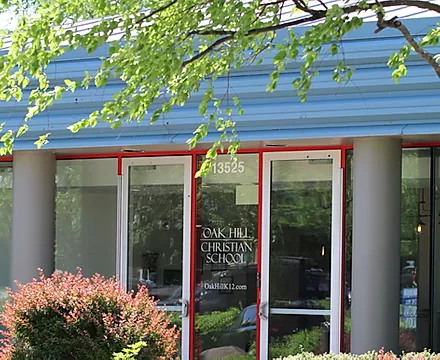
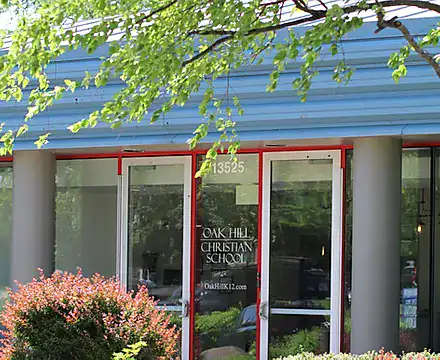
Convert homepage images to webp

diff --git a/index.html b/index.html
@@ -8,7 +8,11 @@ url:
     <!-- <video
         src="https://media.istockphoto.com/videos/elementary-school-kids-playing-on-climbing-net-in-playground-video-id1071490710"
         loop muted playsinline uk-video="autoplay: inview" uk-cover></video> -->
-    <img src="assets/images/IMG_2654.jpg" uk-cover>
+    <picture uk-cover>
+        <source type="image/webp" srcset="assets/images/IMG_2654.webp">
+        <source type="image/jpeg" srcset="assets/images/IMG_2654.jpg">
+        <img src="assets/images/IMG_2654.jpg" uk-cover>
+    </picture>
     <div class="uk-position-top">
         {% include navbar-transparent.html %}
     </div>
@@ -28,7 +32,11 @@ url:
     <div class="uk-grid-large uk-grid-match" uk-grid>
 
         <div class="uk-width-1-3@m">
-            <img src="assets/images/IMG_2656.jpg">
+            <picture>
+                <source type="image/webp" srcset="assets/images/IMG_2656.webp">
+                <source type="image/jpeg" srcset="assets/images/IMG_2656.jpg">
+                <img src="assets/images/IMG_2656.jpg">
+            </picture>
             <h3 class="uk-margin-remove-bottom">Kindergarten</h3>
             <p class="uk-margin-remove-top">Nearly all four year olds in our preschool program learn to read using our
                 proven phonics method while Kindergarten students typically read on a third grade level by the end of
@@ -40,7 +48,11 @@ url:
         </div>
 
         <div class="uk-width-1-3@m">
-            <img src="assets/images/IMG_9941.jpg">
+            <picture>
+                <source type="image/webp" srcset="assets/images/IMG_9941.webp">
+                <source type="image/jpeg" srcset="assets/images/IMG_9941.jpg">
+                <img src="assets/images/IMG_9941.jpg">
+            </picture>
             <h3 class="uk-margin-remove-bottom">Lower School</h3>
             <p class="uk-margin-remove-top">Grade school, or grammar school, is a time for developing structures that
                 reward self-control and personal discipline.</p>
@@ -51,7 +63,11 @@ url:
         </div>
 
         <div class="uk-width-1-3@m">
-            <img src="assets/images/IMG_0051.jpg">
+            <picture>
+                <source type="image/webp" srcset="assets/images/IMG_0051.webp">
+                <source type="image/jpeg" srcset="assets/images/IMG_0051.jpg">
+                <img src="assets/images/IMG_0051.jpg">
+            </picture>
             <h3 class="uk-margin-remove-bottom">Upper School</h3>
             <p class="uk-margin-remove-top">Attending high school at Oak Hill your son or daughter can study math
                 through Trigonometry and Calculus AP.</p>
@@ -116,7 +132,11 @@ url:
 
                     <ul class="uk-slideshow-items">
                         <li>
-                            <img src="assets/images/Washington.Nery.jpg" alt="" uk-cover>
+                            <picture uk-cover>
+                                <source type="image/webp" srcset="assets/images/Washington.Nery.webp">
+                                <source type="image/jpeg" srcset="assets/images/Washington.Nery.jpg">
+                                <img src="assets/images/Washington.Nery.jpg" uk-cover>
+                            </picture>
                             <div class="uk-position-cover uk-overlay uk-flex uk-flex-center uk-flex-middle uk-light"
                                 style="background-color:rgba(0,0,0,.3);">
                                 <div class="uk-margin-large">
@@ -130,7 +150,11 @@ url:
                         </li>
 
                         <li>
-                            <img src="assets/images/alumnus.png" alt="" uk-cover>
+                            <picture uk-cover>
+                                <source type="image/webp" srcset="assets/images/alumnus.webp">
+                                <source type="image/png" srcset="assets/images/alumnus.png">
+                                <img src="assets/images/alumnus.png" uk-cover>
+                            </picture>
                             <div class="uk-position-cover uk-overlay uk-flex uk-flex-center uk-flex-middle uk-light"
                                 style="background-color:rgba(0,0,0,.3);">
                                 <div class="uk-margin-large">
